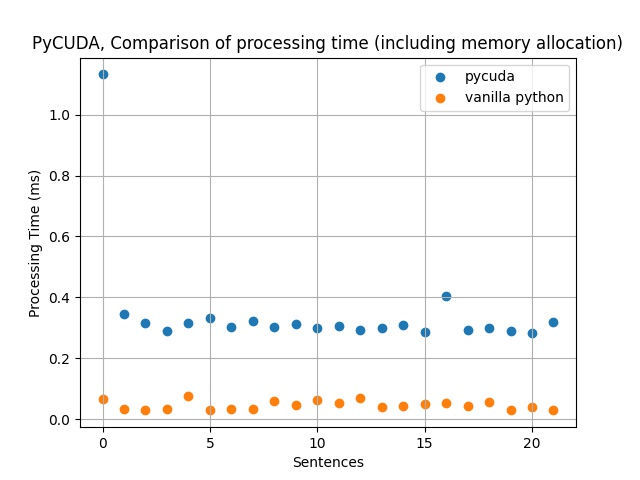
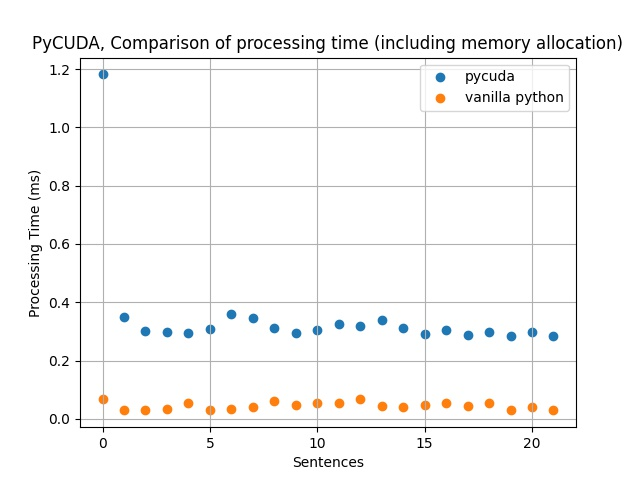
updated blocksize

diff --git a/e4750/hw2/assignment2_pycuda_xs2445.py b/e4750/hw2/assignment2_pycuda_xs2445.py
@@ -20,7 +20,7 @@ class cudaCipher:
         # Quick lambda function to calculate grid dimensions
 
         # define block and grid dimensions
-        self.blocksize = 256
+        self.blocksize = 1024
         self.BlockDim = (self.blocksize,1,1)
         # self.GridDim = (math.ceil(self.length/256),1,1)
         
@@ -100,7 +100,7 @@ class cudaCipher:
         decrypted = np.ndarray.tolist(decrypted)
         # print(type(decrypted))
 
-        return decrypted, time_alc
+        return decrypted, time_cpt
     
     def pyCipher(self, sentence):
         """
@@ -197,11 +197,11 @@ def main():
         plt.scatter(range(len(decrypted_cuda)), tp, label='vanilla python')
         plt.legend()
         plt.grid()
-        plt.title('PyCUDA, Comparison of processing time (including memory allocation)')
+        plt.title('PyCUDA, Comparison of processing time (excluding memory allocation)')
         plt.xlabel('Sentences')
         plt.ylabel('Processing Time (ms)')
         # plt.show()
-        plt.savefig('comparison_cuda_alc.jpg')
+        plt.savefig('comparison_cuda_cpt.jpg')
 
 
 if __name__ == '__main__':
